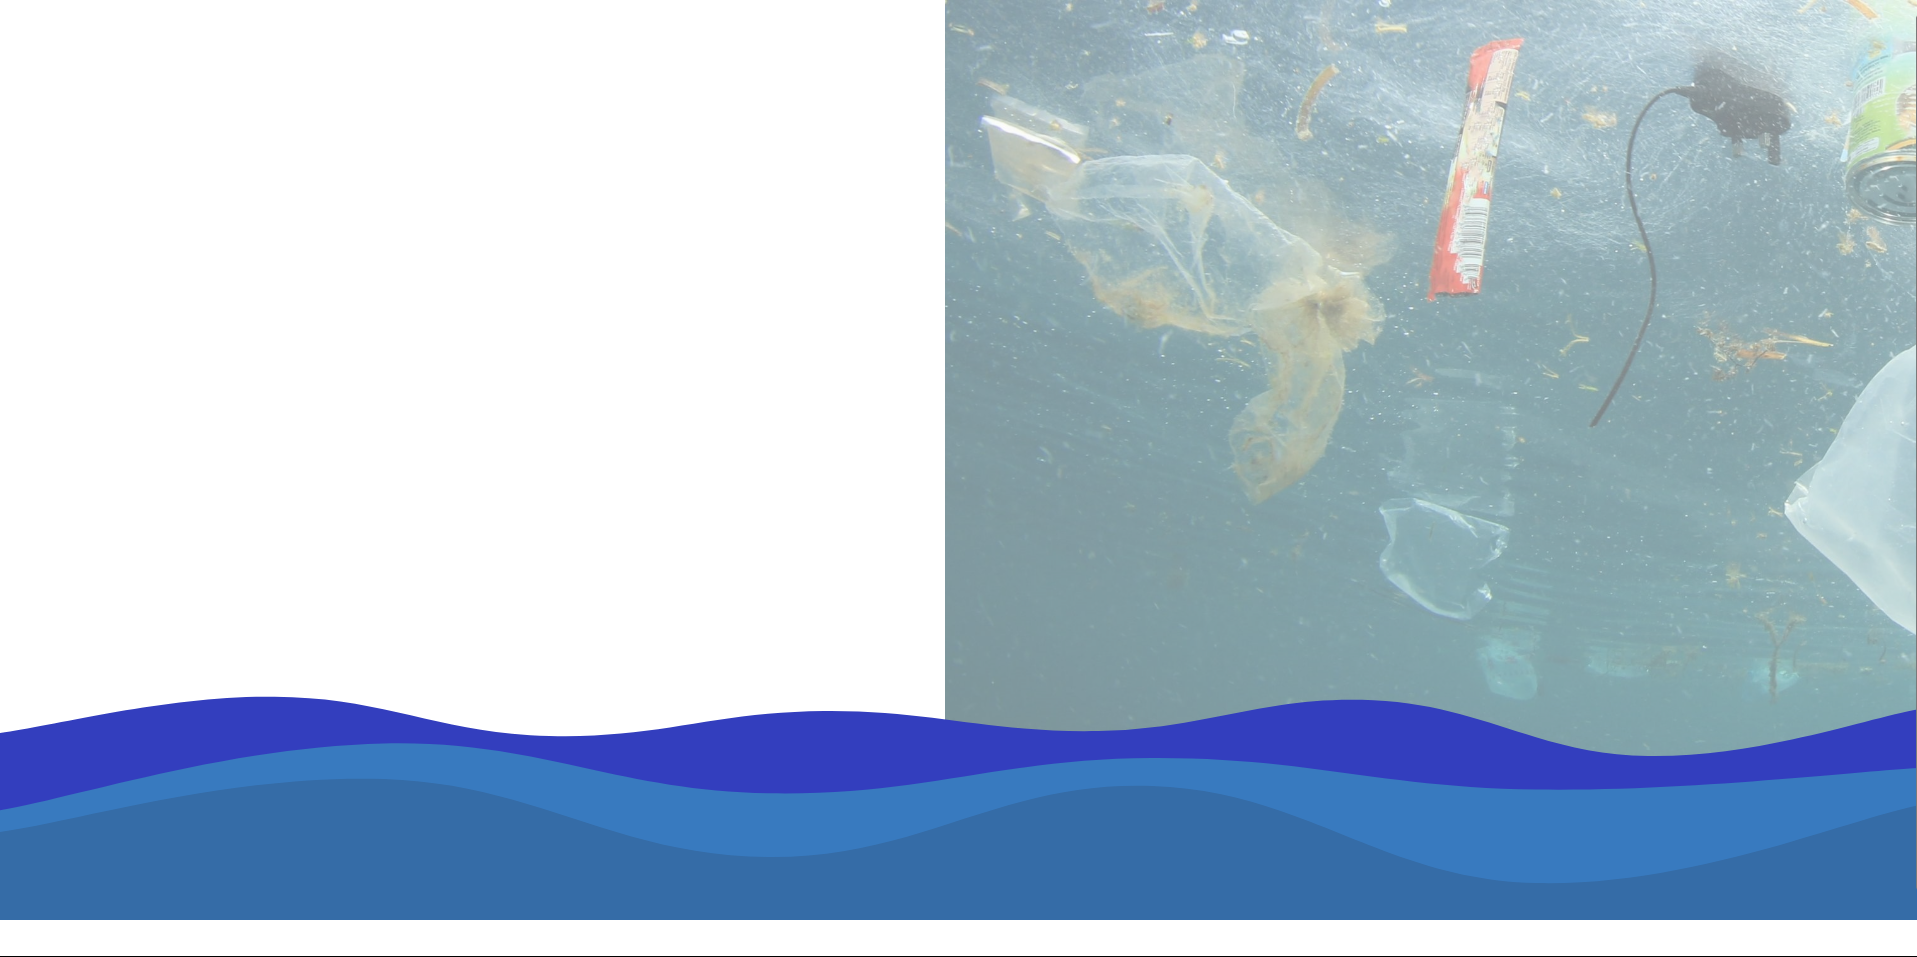
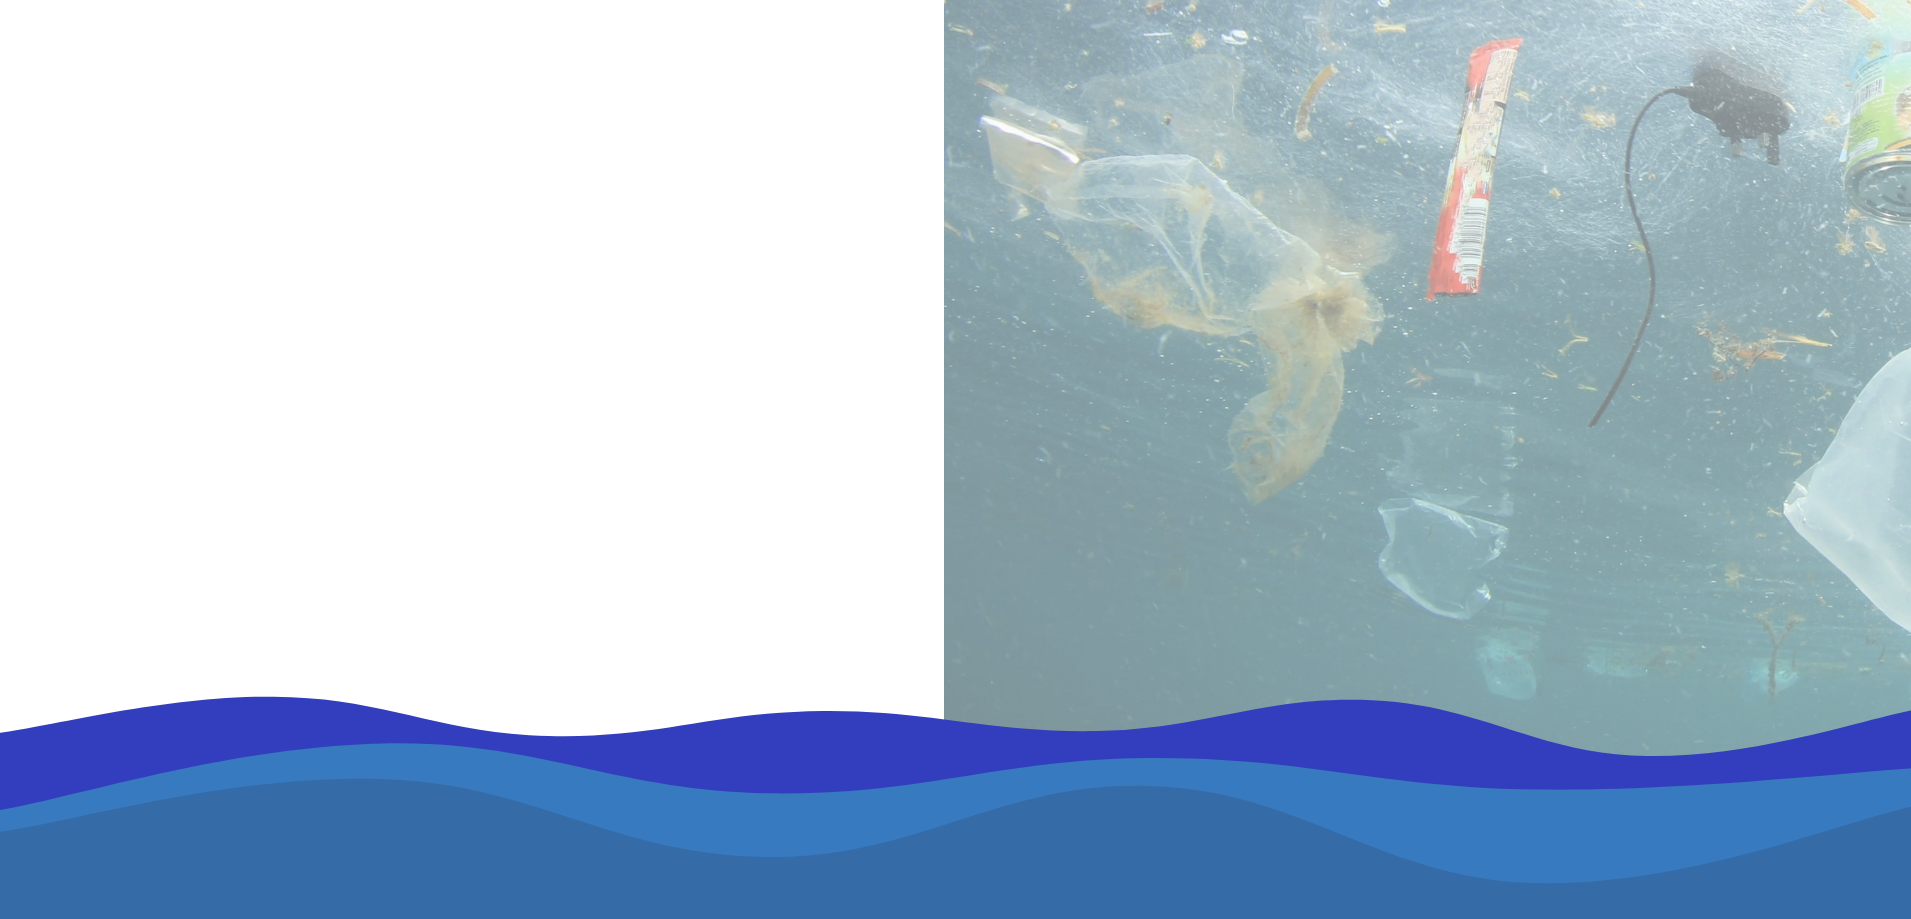
.

diff --git a/src/Components/Hero2.js b/src/Components/Hero2.js
@@ -140,7 +140,7 @@ export default function Example() {
             
           </div>
           
-          <div className="absolute flex items-center justify-center w-full w-screen lg:inset-y-0 lg:right-0 lg:w-full">
+          <div className="absolute flex items-center justify-center invisible w-screen lg:visible lg:inset-y-0 lg:right-0 lg:w-full">
         <img src={BG}
               className="object-cover h-56 sm:h-70 md:h-96 lg:w-full lg:h-full"
               />
